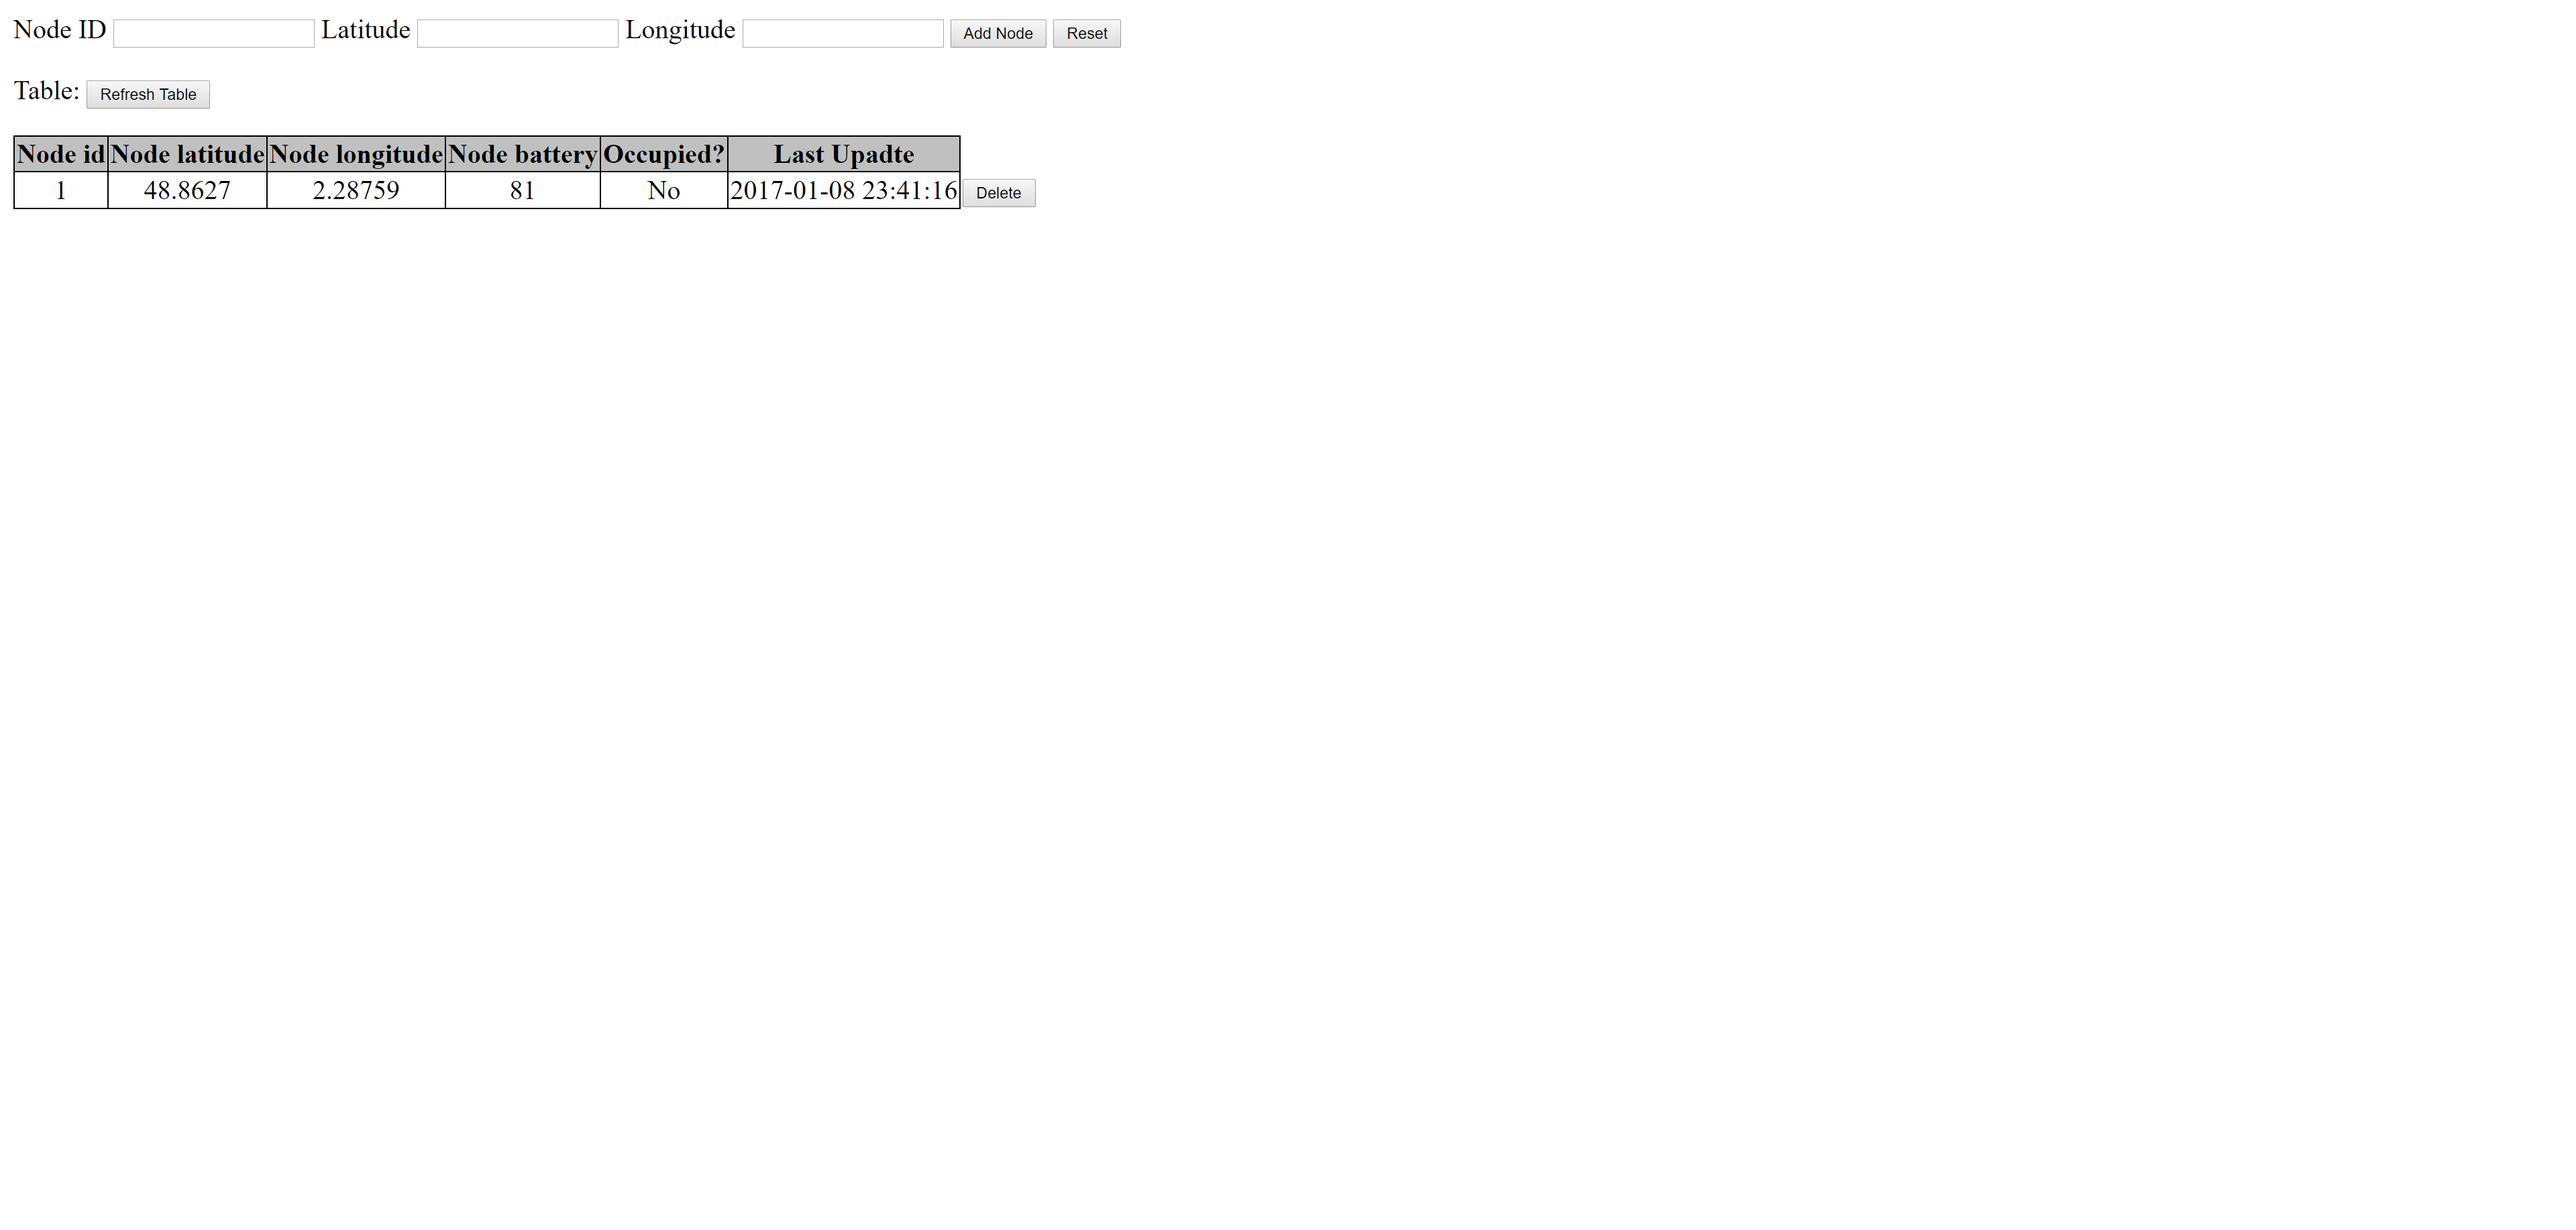
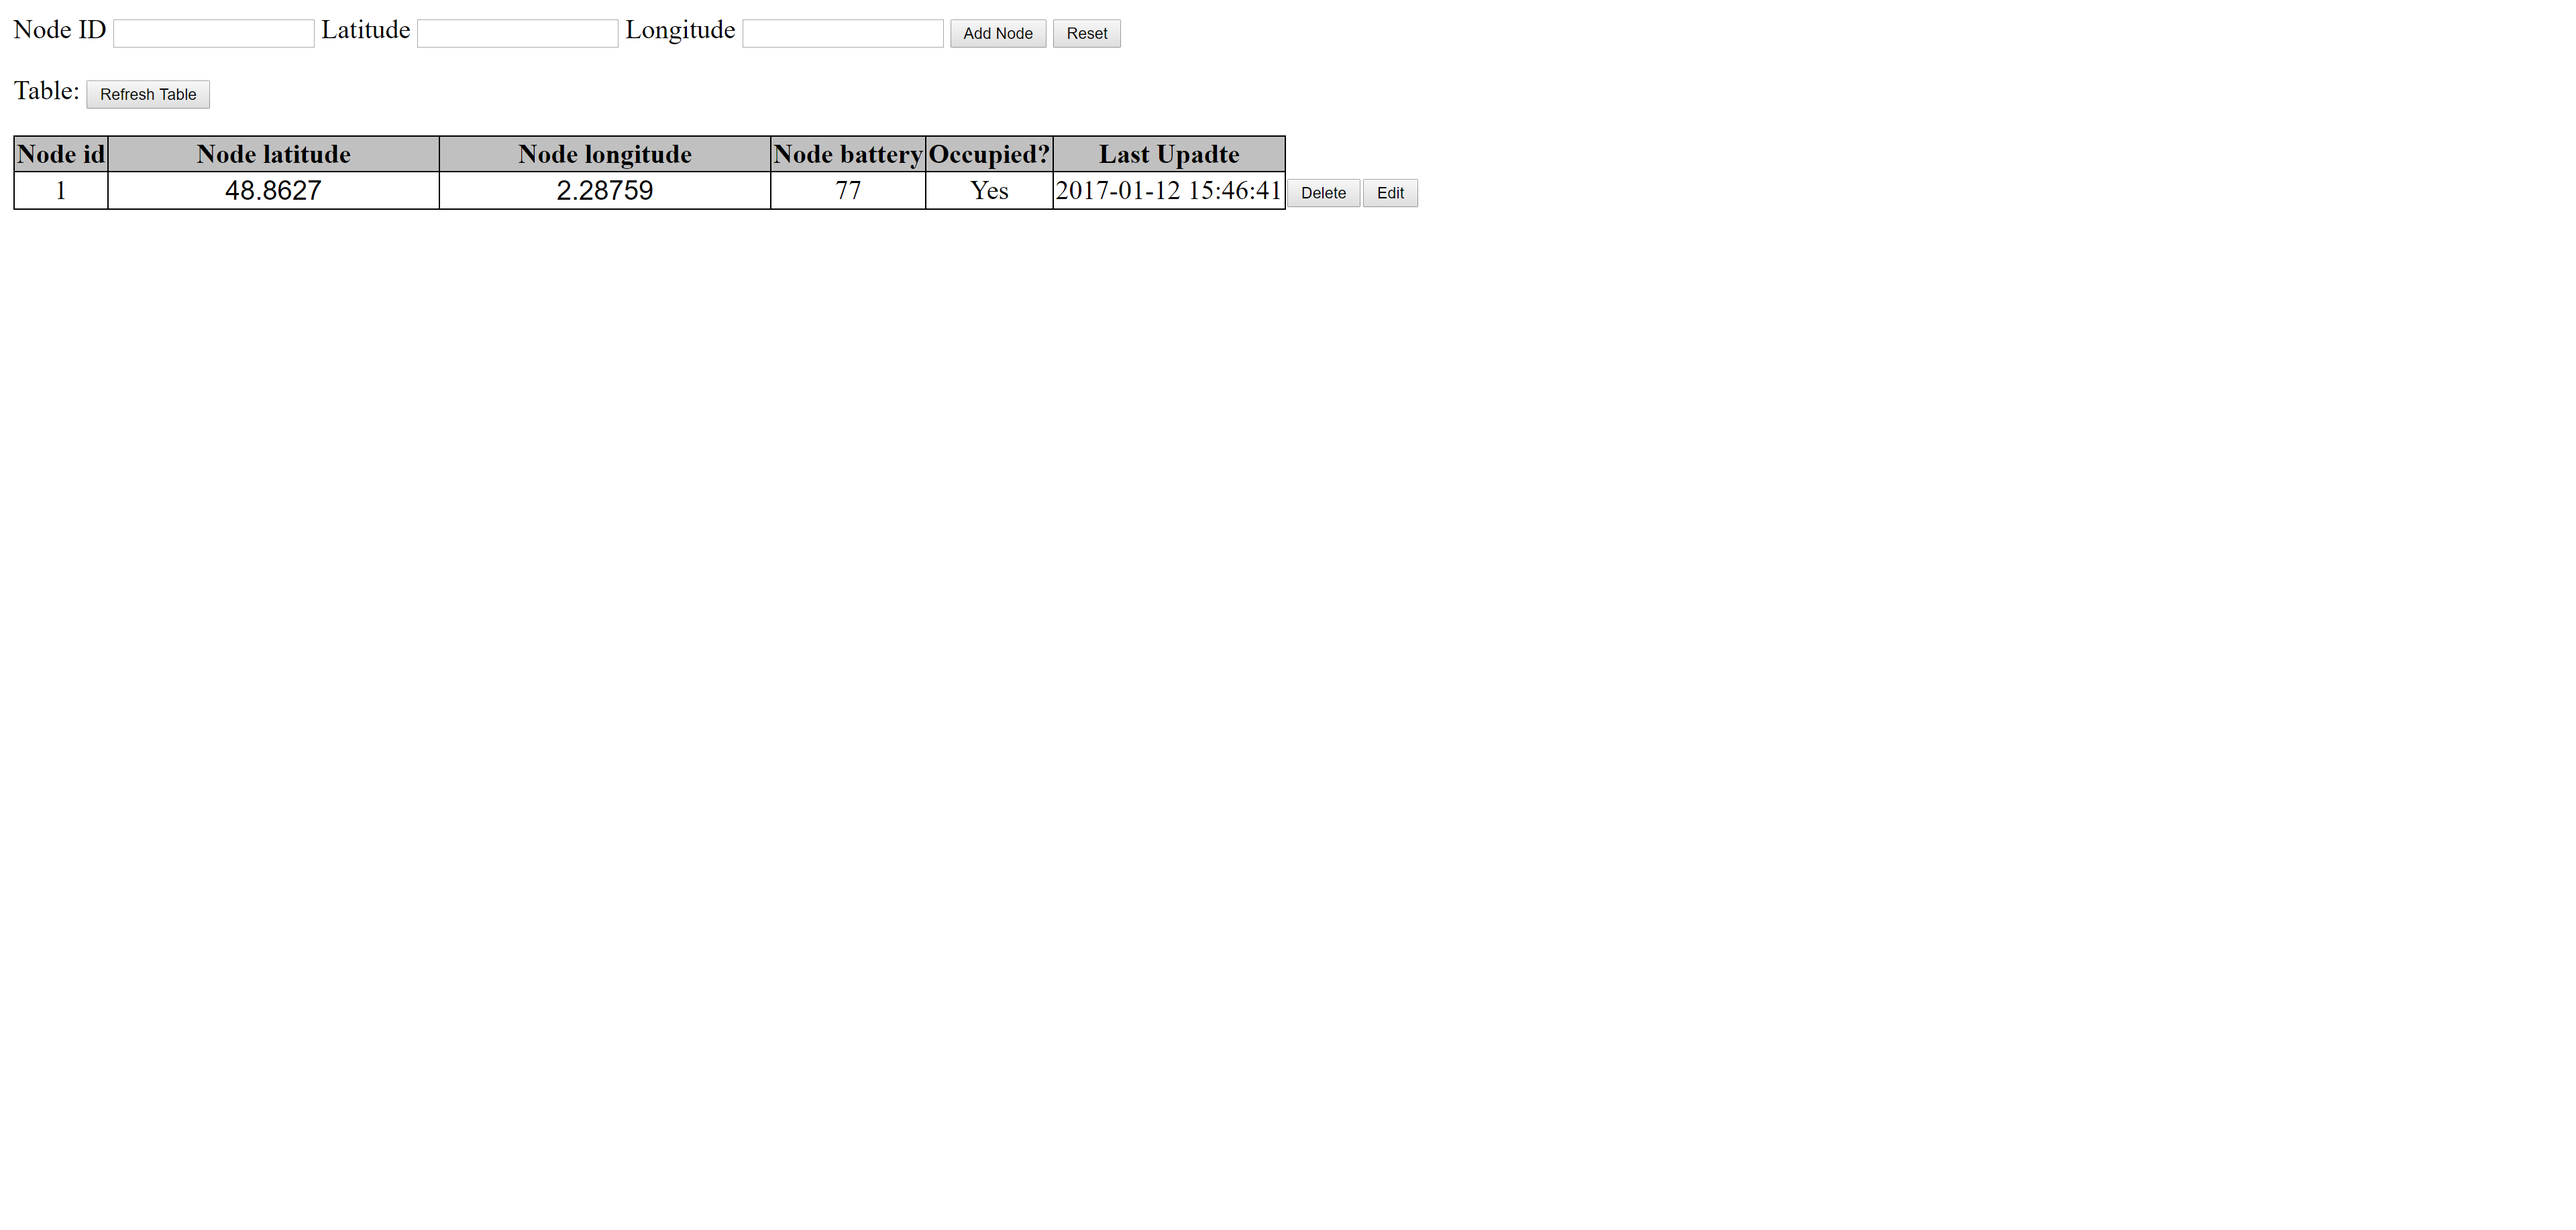
Maj 08/01/2017 pour Admin Site
+ Editer les latitudes et les longitudes des nodes directement depuis le site admin

Changed region(s): [[0.0312, 0.0932, 0.5625, 0.1864]]

diff --git a/Raspberry/Site Web Admin/style.css b/Raspberry/Site Web Admin/style.css
@@ -8,14 +8,24 @@ th, td {
 	border:1px solid black;
 }
 td {
+	font-size: 100%;
 	text-align:center;
+	font-weight:normal;
 }
 caption {
 	font-weight:bold
 }
-#delete {
+.buttons {
 	width:100%;
 }
-.deleteRowButton {
+
+.buttonCells {
 	border-style:none;
+}
+.cellsEditable {
+	border: none;
+	box-sizing: border-box;
+	font-size: 100%;
+	text-align:center;
+	font-weight:normal;
 }

diff --git a/Raspberry/Site Web Admin/index.php b/Raspberry/Site Web Admin/index.php
@@ -19,11 +19,13 @@
 			<table id="table">
 			</table>
 		</p>
-	
+
 		<script>
 		// show all contents in MySQL database
 		selectRequest();
-		
+		document.getElementById('editForm').style.display = 'none';
+	
+		/********* Button functions **********/
 		function addButton(){
 			var node_id = document.getElementById('id').value;
 			var node_latitude = document.getElementById('latitude').value;
@@ -51,12 +53,71 @@
 			if(result){
 				deleteRequest(node_id);
 			}
+
+			selectRequest();
 		}
-		
+				
+		function editButton(currentRow){
+			var tbl= document.getElementById("table");
+			var tr=tbl.rows[currentRow];
+			var cellsEditable = document.getElementsByClassName("cellsEditable");
+			var Buttons = document.getElementsByClassName("buttonCells");
+			var i;
+
+			for(i=2*currentRow-2;i<2*currentRow;i++)
+			{
+				cellsEditable[i].readOnly=false;
+				cellsEditable[i].style.backgroundColor = "#cc0";
+			}
+
+			for(i=1;i<tbl.rows.length;i++)
+			{
+				tbl.rows[i].deleteCell(7);
+				tbl.rows[i].deleteCell(6);
+			}
+			
+			var change = document.createElement("INPUT");
+			change.setAttribute("type", "submit");
+			change.addEventListener('click',function(){
+				changeButton(currentRow);
+			});
+			change.value="Update";
+			change.class="buttons";
+
+			var cancel = document.createElement("INPUT");
+			cancel.setAttribute("type", "reset");
+			cancel.onclick=cancelButton;
+			cancel.value="Cancel";
+			cancel.class="buttons";
+			
+			var changeCell = tr.insertCell(6);
+			changeCell.style.border = "none";
+			changeCell.appendChild(change);
+
+			var cancelCell = tr.insertCell(7);
+			cancelCell.style.border = "none";
+			cancelCell.appendChild(cancel);
+			
+		}
+
+		function changeButton(currentRow){
+			var node_id = document.getElementById('table').rows[currentRow].cells[0].innerHTML;
+			var node_latitude = document.getElementById('table').rows[currentRow].cells[1].childNodes[1].value;
+			var node_longitude = document.getElementById('table').rows[currentRow].cells[2].childNodes[1].value;
+
+			updateRequest(node_id, node_latitude, node_longitude);
+			selectRequest();
+		}
+
+		function cancelButton(){
+			selectRequest();
+		}
+
 		function refreshButton(){
 			selectRequest();
 		}
-		
+
+		/********* Request functions **********/
 		function insertRequest(node_id, node_latitude, node_longitude){
 			var ajaxurl = 'nodes.php';
 			var params = 'action=insert&node_id='+node_id+'&node_latitude='+node_latitude+'&node_longitude='+node_longitude;
@@ -86,7 +147,22 @@
 			}
 			xhr.send(params);
 		}
-		
+
+		function updateRequest(node_id, node_latitude, node_longitude){
+			var ajaxurl = 'nodes.php';
+			var params = 'action=update&node_id='+node_id+'&node_latitude='+node_latitude+'&node_longitude='+node_longitude;
+
+			var xhr = new XMLHttpRequest();
+			xhr.open('POST', ajaxurl, true);
+			xhr.setRequestHeader('Content-type', 'application/x-www-form-urlencoded');
+			xhr.openreadystatechange = function(){
+				if(this.readyState == 4 && this.status == 200){
+					alert(http.responseText);
+				}
+			}
+			xhr.send(params);
+		}
+
 		function selectRequest(node_id){
 			var ajaxurl = 'nodes.php';
 			var xhr = new XMLHttpRequest();

diff --git a/Raspberry/Site Web Admin/nodes.php b/Raspberry/Site Web Admin/nodes.php
@@ -14,6 +14,9 @@ switch($method){
 			case 'delete':
 				deleteRow($_POST['node_id']);
 				break;
+			case 'update':
+				updateRow($_POST['node_id'],$_POST['node_latitude'],$_POST['node_longitude']);
+				break;
 			default:
 				break;
 		}
@@ -38,7 +41,8 @@ function add($id,$latitude,$longitude){
 
 	$insertsql = "INSERT INTO ESIGELEC (node_id, node_latitude, node_longitude) VALUES($id, $latitude, $longitude);";
 	$result = $conn->query($insertsql);
-
+	echo $result;
+		
 	$conn->close();
 }
 
@@ -54,6 +58,23 @@ function deleteRow($id){
 
 	$deletesql = "DELETE FROM ESIGELEC WHERE node_id=$id;";
 	$result = $conn->query($deletesql);
+
+	$conn->close();
+}
+
+function updateRow($id,$latitude,$longitude){
+	global $servername, $username, $password, $dbname;
+	
+	// Create connection
+	$conn = new mysqli($servername, $username, $password, $dbname);
+	// Check connection
+	if ($conn->connect_error) {
+		die("Connection failed: " . $conn->connect_error);
+	} 
+
+
+	$insertsql = "UPDATE ESIGELEC SET node_latitude=$latitude, node_longitude=$longitude WHERE node_id=$id;";
+	$result = $conn->query($insertsql);
 
 	$conn->close();
 }
@@ -92,15 +113,16 @@ function show(){
 		while($row = $result->fetch_assoc()) {
 			$currentRow++;
 			
-			echo 	'<tr>
+			echo 	'<form class="row">
+					<tr>
 					  <td>
 						'.$row['node_id'].'
 					  </td>
 					  <td>
-						'.$row['node_latitude'].'
+						<input type="text" class="cellsEditable" value='.$row['node_latitude'].' readonly/>
 					  </td>
 					  <td>
-						'.$row['node_longitude'].'
+						<input type="text" class="cellsEditable" value='.$row['node_longitude'].' readonly/>
 					  </td>
 					  <td>
 						'.$row['node_bat'].'
@@ -111,12 +133,14 @@ function show(){
 					  <td>
 						'.$row["node_last_update"].'
 					  </td>
-					  <td class="deleteRowButton">
-						<form>
-							<input type="submit" id="delete" value="Delete" onclick="return deleteButton('.$currentRow.');"/>
-						</form>
+					  <td class="buttonCells">
+						<input type="submit" class="buttons" value="Delete" onclick="return deleteButton('.$currentRow.');"/>
 					  </td>
-					</tr>';
+					  <td class="buttonCells">
+						<input type="submit" class="buttons" value="Edit" onclick="return editButton('.$currentRow.');"/>
+					  </td>
+					</tr>
+				</form>';
 		}
 		echo '</table>';
 		} else {
